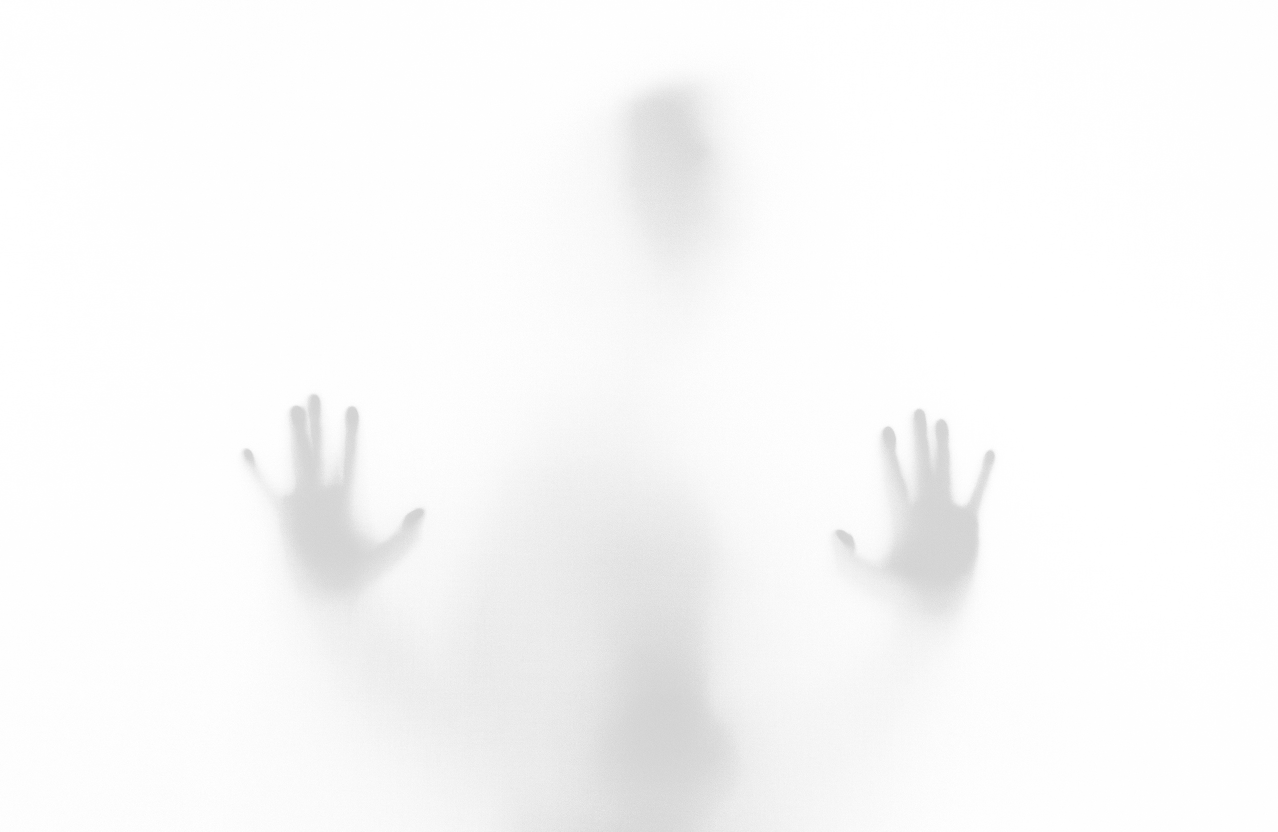
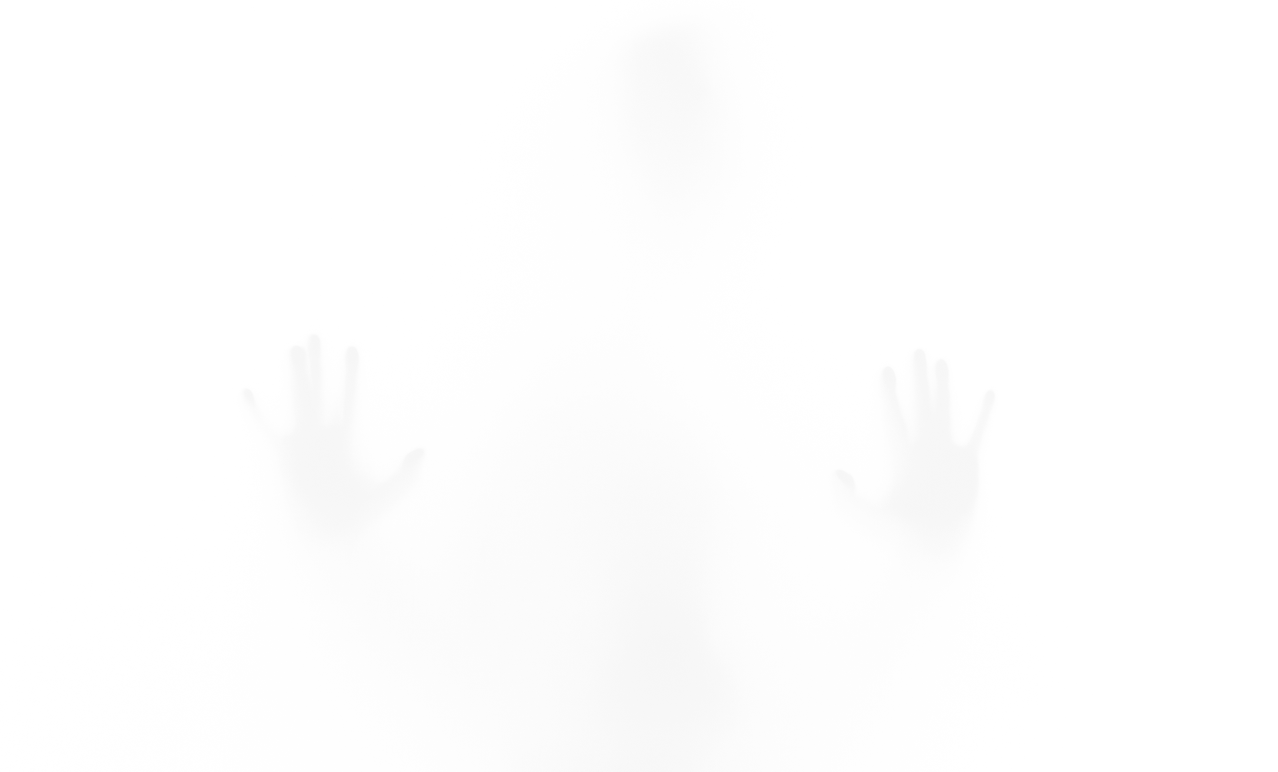
ajustando a heroSection, iniciando a criação do grid, ajustando os celulares

diff --git a/index.html b/index.html
@@ -29,7 +29,12 @@
         </div>
     </header>
 
+    <div class="imagensFundo">
+        <img class="pessoa" src="assets/images/pages/index/backgorund-pessoa.png" alt="pessoa" >
+        <img class="fumaca"src="assets/images/pages/index/backgorund-fumaca.png" alt="fumaça">
+    </div>
     <section class="heroSection">
+
         <div class="heroGrid">
             <article class="floating1 cardsFlutuantes">
                 <img class="cardsHero" src="./assets/images/pages/index/flutuante-1.png" alt="">
@@ -61,6 +66,7 @@
             </article>
         </div>
     </section>
+
     <section class="heroCell">
         <div class="cellAlign">
             <div class="cell1">
@@ -84,13 +90,20 @@
     <main class="page">
         <section class="funcionalSection">
             <div class="contentFunctional">
-                <h2>Funcionalidades Presentes</h2>
-                <p>Lorem ipsum dolor sit amet consectetur adipisicing elit. Error, velit.</p>
-                <hr>
+                <div>
+                    <h2 class="functionalTitle">Funcionalidades Presentes</h2>
+                    <p class="funcionalText">Lorem ipsum dolor sit amet consectetur adipisicing elit. Error, velit.</p>
+                    <hr class="functionalRow">
+                </div>
             </div>
             <div class="parentGrid">
-                <div class="div1">1</div>
-                <div class="div2">2</div>
+                <div class="div1">
+                    <h2>Quem somos?</h2>
+                </div>
+                <div class="div2">
+                    <h2>Já sabe preencher o seu curriculo?</h2>
+                    <button class="parentBtn btn">Conhça como</button>
+                </div>
                 <div class="div3">3</div>
                 <div class="div4">4</div>
                 <div class="div5">5</div>

diff --git a/assets/css/pages/index/partials/funcionalSection.css b/assets/css/pages/index/partials/funcionalSection.css
@@ -1,0 +1,53 @@
+@import url('../../../global/variables.css');
+
+.contentFunctional {
+    width: 490px;
+    height: 110px;
+    margin: auto;
+    display: flex;
+    justify-content: center;
+    align-items: center;
+    text-align: center;
+    margin-bottom: 110px;
+}
+
+.functionalTitle {
+    font-size: 32px;
+    color: var(--black);
+}
+
+.funcionalText {
+    color: #696969;
+    font-size: 24px;
+    margin-bottom: 30px;
+}
+
+.functionalRow {
+    background-color: #696969;
+    height: 8px;
+    border-radius: 8px;
+}
+
+.div1 {
+    display: flex;
+    justify-content: center;
+    align-items: center;
+    width: 322px;
+    height: 200px;
+    background-color: var(--primary);
+    color: var(--white);
+    opacity: 80%;
+    border-radius: 32px;
+}
+
+.div2 {
+    background-image: url('../../../../images/pages/index/background-grid-2.png');
+    width: 317px;
+    height: 460px;
+}
+
+.parentBtn {
+    
+    border: solid 2px var(--white);
+}
+

diff --git a/assets/css/pages/index/partials/heroSection.css b/assets/css/pages/index/partials/heroSection.css
@@ -1,13 +1,26 @@
 @import url('../../../global/variables.css');
 
+.imagensFundo{
+    display: block;
+    position: absolute;
+    z-index: -1;
+}   
 
+.imagensFundo .pessoa{
+    width: 100vw;
+    margin-bottom: -800px;
+}
 
+.imagensFundo .fumaca{
+    width: 100vw;
+    position: relative;
+}
 .heroSection {
     width: 1080px;
     height: 850px;
-    background-image: url('../../../../images/pages/index/backgorund-pessoa.png');
+    /* background-image: url('../../../../images/pages/index/backgorund-pessoa.png');
     background-position: center;
-    background-repeat: no-repeat;
+    background-repeat: no-repeat; */
     margin: auto;
 }
 

diff --git a/assets/css/pages/index/index.css b/assets/css/pages/index/index.css
@@ -2,6 +2,8 @@
 @import url('./partials/heroSection.css');
 @import url('./partials/heroCell.css');
 @import url('./partials/main.css');
+@import url('./partials/funcionalSection.css');
+
 @import url('../../global/elements.css');
 @import url('../../global/normalize.css');
 
